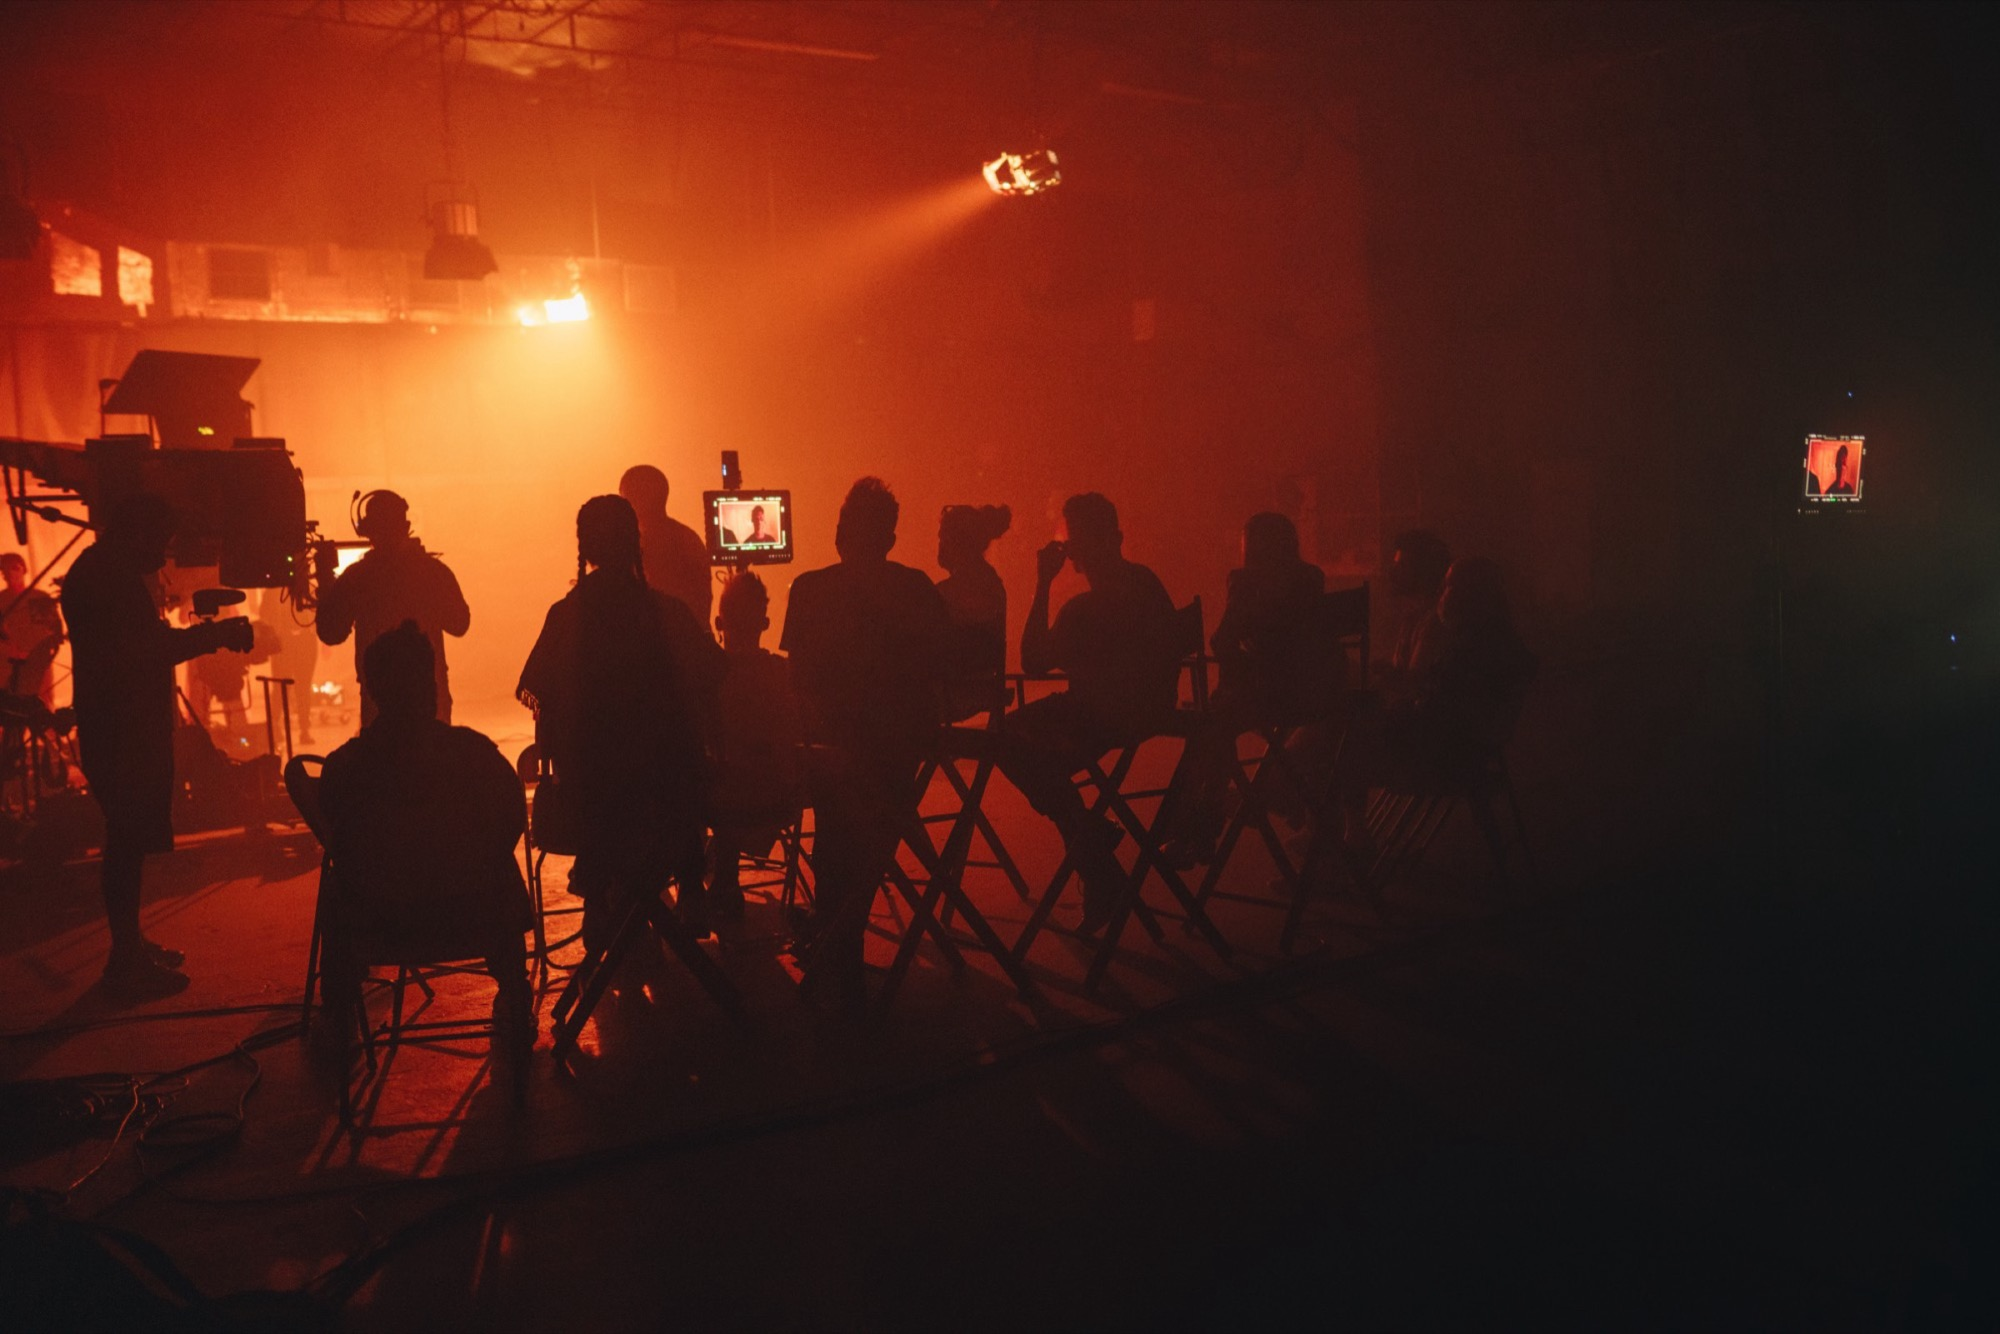
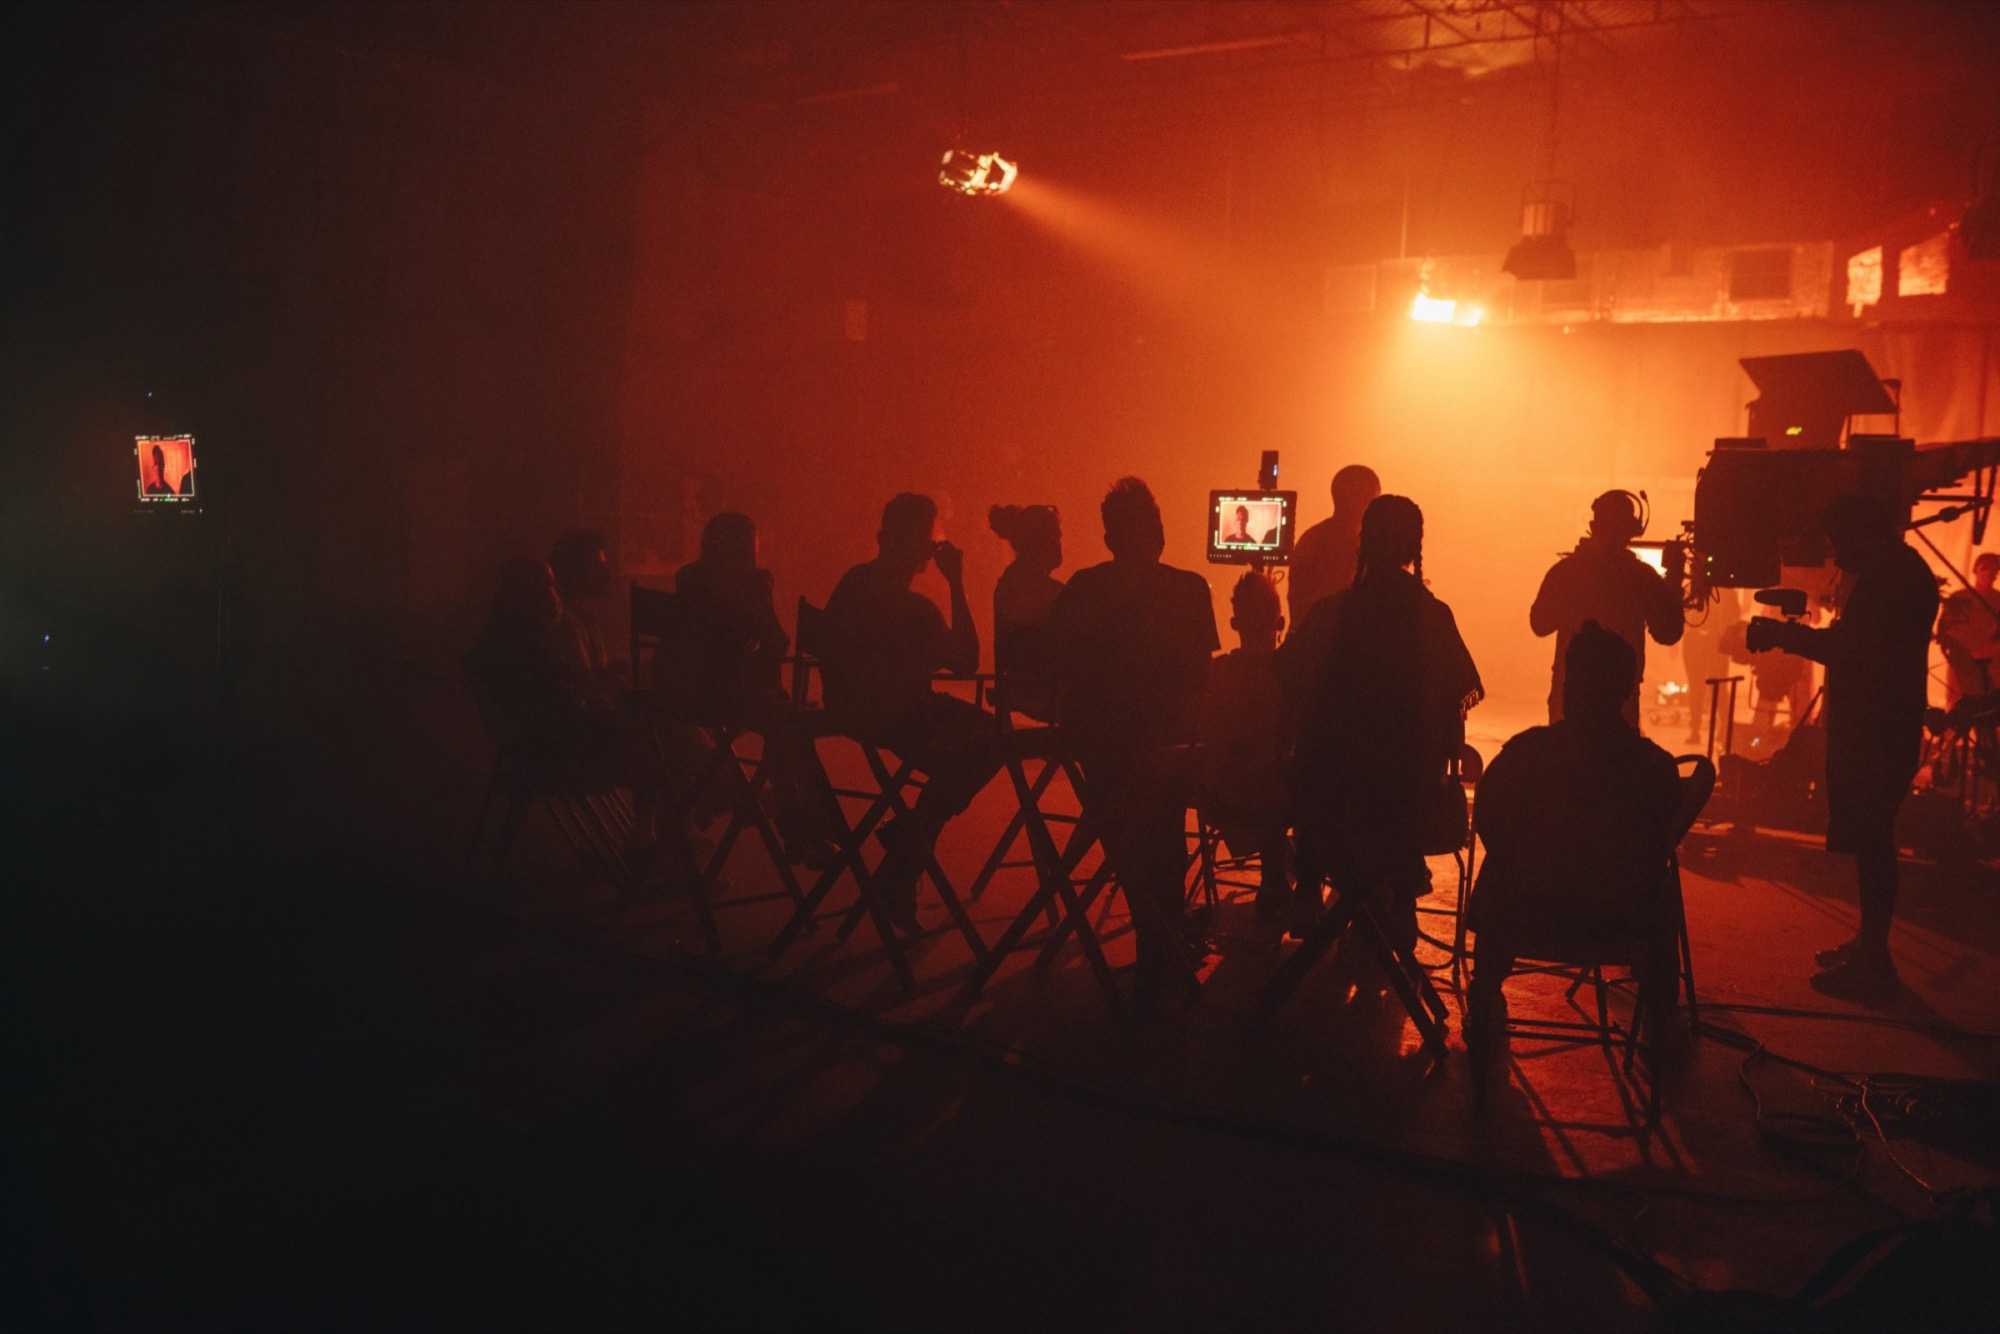
Sign-in backdrop: top-right radial fade, phone hero, upscaled Mars, flipped set photo

diff --git a/studio-auth.jsx b/studio-auth.jsx
@@ -20,23 +20,30 @@
     return m;
   }
 
-  // Desktop sign-in backdrop: two set photos that crossfade every 30s. The
-  // starting photo is random on each load. Sits behind the panel's content.
+  // Sign-in backdrop (desktop and phone): two set photos that crossfade every
+  // 30s, random starting photo on each load. The photo sits in the top-right
+  // and dissolves into black through a radial mask. `pos` is the background
+  // position (desktop / phone) that keeps each photo's subject in view.
   const LOGIN_BACKDROPS = [
-    { src: 'login-bg-mars.jpg', shade: 'linear-gradient(90deg, rgba(15,8,4,0.78) 0%, rgba(15,8,4,0.35) 55%, rgba(15,8,4,0.15) 100%), linear-gradient(180deg, rgba(0,0,0,0.45) 0%, rgba(0,0,0,0) 30%, rgba(0,0,0,0.7) 100%)' },
-    { src: 'login-bg-set.jpg', shade: 'linear-gradient(90deg, rgba(8,3,1,0.6) 0%, rgba(8,3,1,0.28) 55%, rgba(8,3,1,0) 100%), linear-gradient(180deg, rgba(0,0,0,0.35) 0%, rgba(0,0,0,0) 35%, rgba(0,0,0,0.6) 100%)' },
+    { src: 'login-bg-mars.jpg', pos: { desk: '75% 0', phone: '42% 0' } },
+    { src: 'login-bg-set.jpg',  pos: { desk: '70% 0', phone: '50% 0' } },
   ];
   const BACKDROP_MS = 30000;
-  function LoginBackdrop() {
+  function LoginBackdrop({ phone = false }) {
     const [idx, setIdx] = useState(() => Math.floor(Math.random() * LOGIN_BACKDROPS.length));
     useEffect(() => {
       const t = setInterval(() => setIdx(i => (i + 1) % LOGIN_BACKDROPS.length), BACKDROP_MS);
       return () => clearInterval(t);
     }, []);
+    const mask = phone
+      ? 'radial-gradient(ellipse 120% 115% at 100% 0%, #000 0%, #000 28%, rgba(0,0,0,0.55) 55%, transparent 88%)'
+      : 'radial-gradient(ellipse 115% 105% at 100% 0%, #000 0%, #000 42%, rgba(0,0,0,0.6) 68%, transparent 96%)';
     return (
       <React.Fragment>
         {LOGIN_BACKDROPS.map((b, i) => (
-          <div key={b.src} aria-hidden="true" style={{ position: 'absolute', inset: 0, pointerEvents: 'none', opacity: i === idx ? 1 : 0, transition: 'opacity 1.6s ease-in-out', background: `${b.shade}, #0c0c0c url(${b.src}) center / cover no-repeat` }} />
+          <div key={b.src} aria-hidden="true" style={{ position: 'absolute', inset: 0, background: '#000', pointerEvents: 'none', opacity: i === idx ? 1 : 0, transition: 'opacity 1.6s ease-in-out' }}>
+            <div style={{ position: 'absolute', top: 0, right: 0, width: '100%', height: phone ? '100%' : '86%', background: `url(${b.src}) ${phone ? b.pos.phone : b.pos.desk} / cover no-repeat`, WebkitMaskImage: mask, maskImage: mask }} />
+          </div>
         ))}
       </React.Fragment>
     );
@@ -207,16 +214,17 @@
     if (isMobile) {
       return (
         <div style={{ position: 'fixed', inset: 0, overflowY: 'auto', background: '#fff', color: T.ink }}>
-          <div style={{ minHeight: 280, padding: 'calc(env(safe-area-inset-top) + 24px) 24px 40px', display: 'flex', flexDirection: 'column', justifyContent: 'space-between', gap: 40, color: '#fff', background: 'linear-gradient(180deg, rgba(0,0,0,0.55) 0%, rgba(0,0,0,0.25) 45%, rgba(0,0,0,0.85) 100%), #0c0c0c url(login-bg.jpg) center / cover no-repeat' }}>
-            <div style={{ display: 'flex', alignItems: 'center', gap: 10 }}>
+          <div style={{ position: 'relative', overflow: 'hidden', minHeight: 280, padding: 'calc(env(safe-area-inset-top) + 24px) 24px 40px', display: 'flex', flexDirection: 'column', justifyContent: 'space-between', gap: 40, color: '#fff', background: '#000' }}>
+            <LoginBackdrop phone />
+            <div style={{ position: 'relative', display: 'flex', alignItems: 'center', gap: 10 }}>
               <img src="app-icon.jpg" alt="Gear" style={{ width: 30, height: 30, borderRadius: 7 }} />
               <div style={{ ...S.wordmark, fontSize: 15 }}>THE GEAR APP</div>
             </div>
-            <div>
+            <div style={{ position: 'relative' }}>
               <div style={{ fontFamily: S.sans, fontSize: 'clamp(32px, 9vw, 46px)', fontWeight: 700, letterSpacing: '-0.025em', lineHeight: 1.05, marginBottom: 10 }}>
                 All your gear,<br />in one place.
               </div>
-              <div style={{ fontSize: 14, lineHeight: 1.5, color: 'rgba(255,255,255,0.75)' }}>
+              <div style={{ fontSize: 14, lineHeight: 1.5, color: 'rgba(255,255,255,0.82)', textShadow: '0 1px 12px rgba(0,0,0,0.5)' }}>
                 Organise your equipment, track your inventory and prep for every shoot.
               </div>
               {window.STUDIO_GUIDE && (
